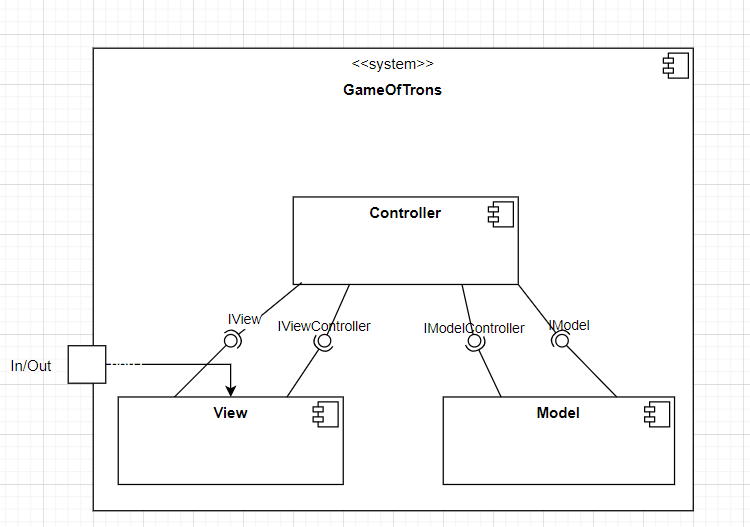
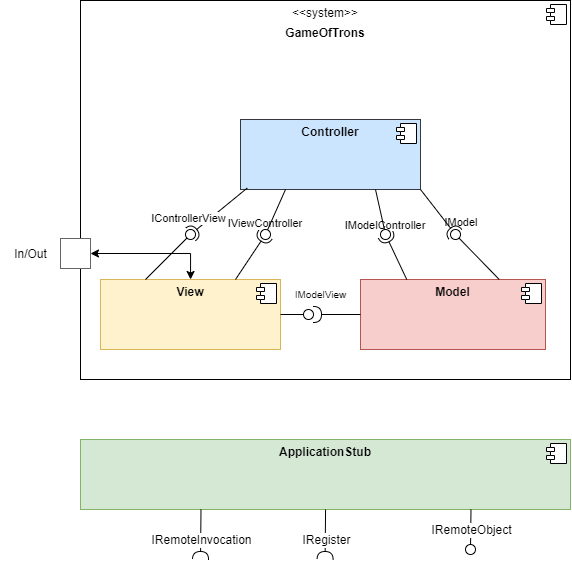
update Diagramme

diff --git a/Doku/Dokumentation_Tronspiel.md b/Doku/Dokumentation_Tronspiel.md
@@ -277,6 +277,21 @@ Der Controller bietet Funktionalitäten für die View v.a. zur Kommunikation mit
 <a name="applicationstubblackblox"></a>
 ### Application Stub (Blackbox) 
 
+**Zweck/ Verantwortung**
+
+Der Application Stub fängt Methodenaufrufe auf, die Schnittstellen von Remote-Komponenten aufrufen. Beim Auffangen wird die Middleware aufgerufen.
+
+
+
+Außerdem leitet der Application Stub einen durch die Middleware empfangenen Methodenaufruf an die richtuge Komponentenschnittstelle weiter, wo der Aufruf abgearbeitet wird.
+
+
+**Schnittstelle(n)**
+
+Die Schnittstelle **IRemoteObject** bietet die Funktionalität zum Empfangen von Remote-Methodenaufrufen an. 
+
+| Methode | Kurzbeschreibung |
+| --- | --- |
 
 <a name="ebene2"></a>
 ## Ebene 2 
@@ -289,7 +304,7 @@ Der Controller bietet Funktionalitäten für die View v.a. zur Kommunikation mit
 <br>
 
 
-## Ebene 2 {#_ebene_2}
+## Ebene 2 
 
 ### Whitebox Model
 
@@ -298,19 +313,13 @@ Der Controller bietet Funktionalitäten für die View v.a. zur Kommunikation mit
 
 ### Whitebox View 
 
-![View_Whitebox](./images/Whitebox_View.png)
-
-|Methode| Kurzbeschreibung|
-| --- | --- |
-|drawScreen() | Abstrakte Methode, die in den konkreten Klassen die Bildschirmanzeige zeichnet. |
-|informUser(String) | konkrete Methode, die eine Meldung (als Aufrufparameter übergebe) dem Nutzer anzeigt. |
-|getPlayerColor(int) | |
-|showPlayerColor(int) | |
-|drawPlayers() | |
-|drawTileColors() | |
+![View_Ebene3](./images/Whitebox1_View.png)
 
 
 
+### Whitebox Application Stub
+
+![AppStub_Ebene2](./images/Whitebox_AppStub.png)
 
 
 <a name="ebene3"></a>
@@ -332,7 +341,16 @@ Der Controller bietet Funktionalitäten für die View v.a. zur Kommunikation mit
 ### Whitebox View
 
 
-![Diagramme_VS__1_.jpg](Diagramme_VS__1_.jpg)
+![View_Ebene3](./images/Whitebox_View.png)
+
+|Methode| Kurzbeschreibung|
+| --- | --- |
+|drawScreen() | Abstrakte Methode, die in den konkreten Klassen die Bildschirmanzeige zeichnet. |
+|informUser(String) | konkrete Methode, die eine Meldung (als Aufrufparameter übergebe) dem Nutzer anzeigt. |
+|getPlayerColor(int) |?? |
+|showPlayerColor(int) | ??|
+|drawPlayers() | Zeigt die aktuell lebenden Spieler an ihrer aktuellen Position an. |
+|drawTileColors() | Zeigt die aktuelle Farbbelegung der Tiles an.|
 
 ### Whitebox Controller
 
